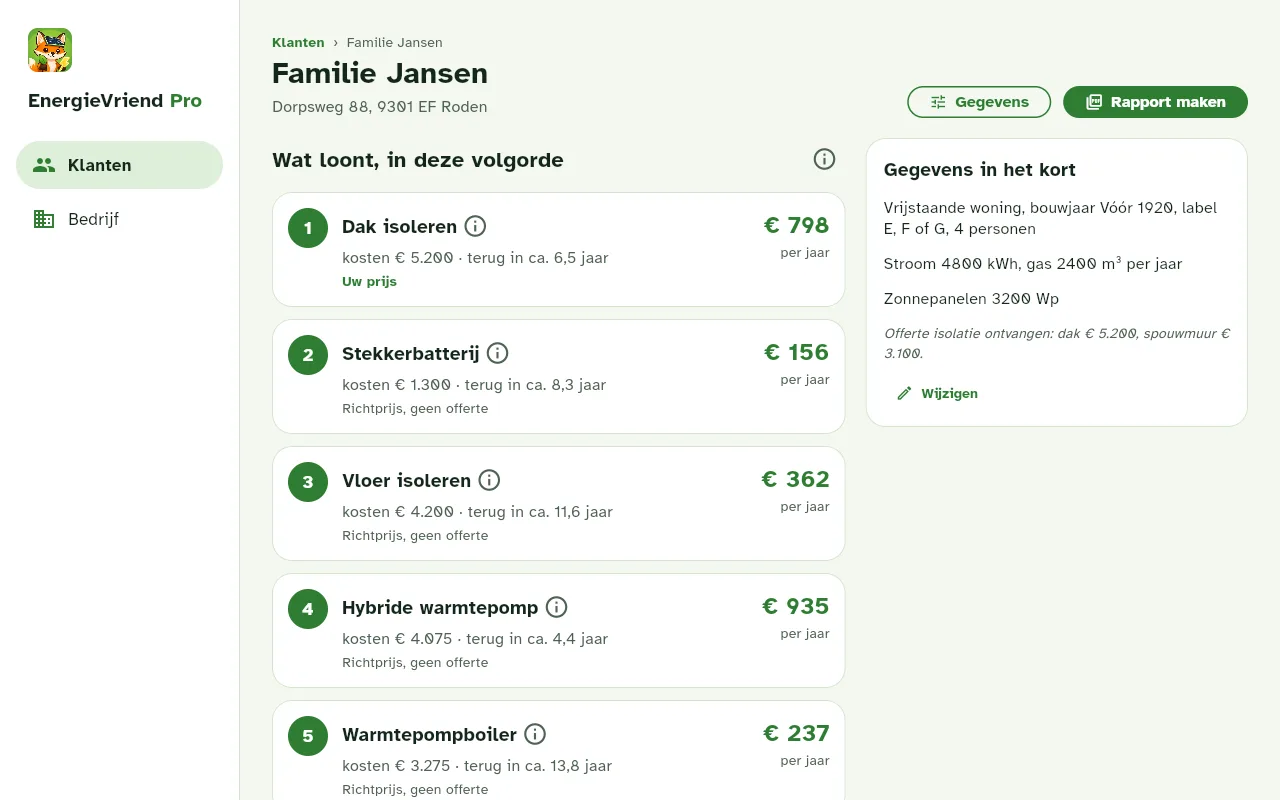
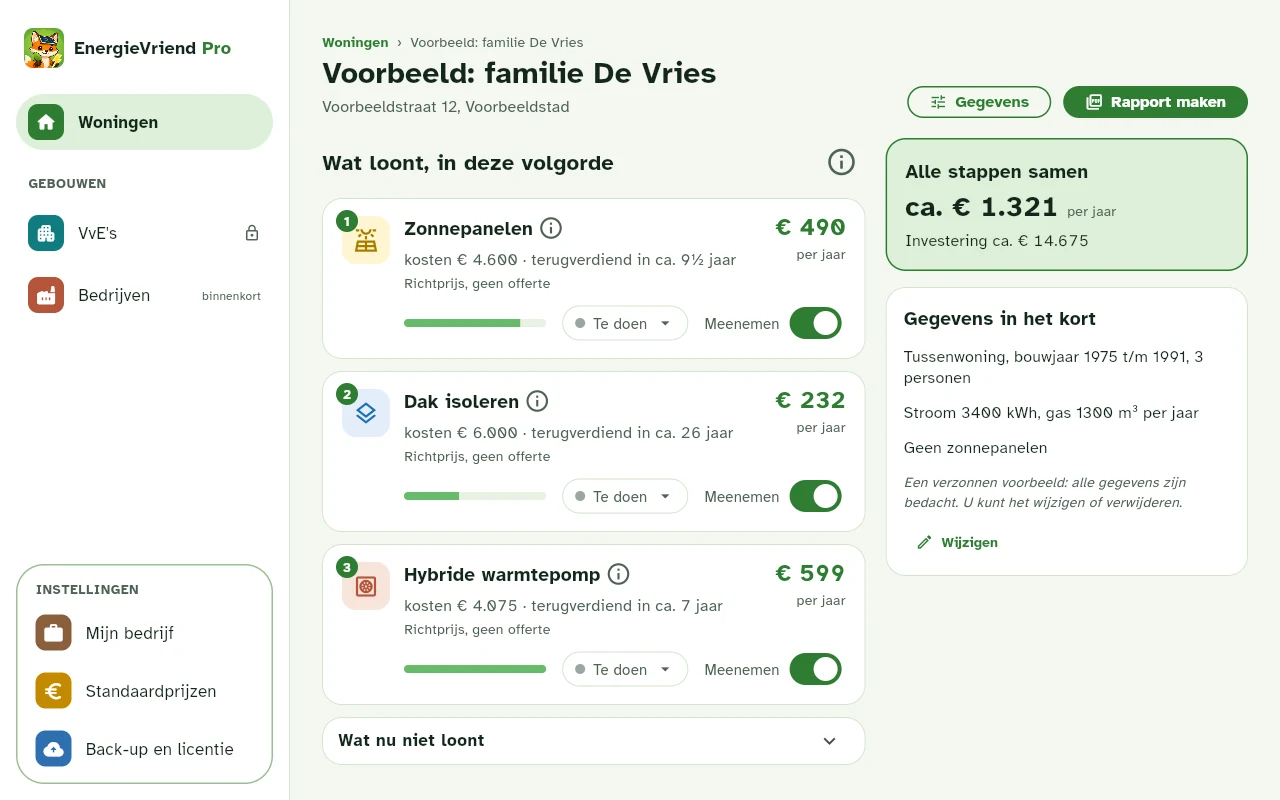
Hoofdpagina: menu en blok naar EnergieVriend Pro; adviseurspagina: nieuwe schermen, VvE-beelden, bestellen via de bestelpagina

diff --git a/adviseurs.html b/adviseurs.html
@@ -54,7 +54,13 @@
   ul { margin: 0 0 0.9rem; padding-left: 1.25rem; display: grid; gap: 0.45rem; }
   strong { font-weight: 700; }
 
-  .merk { display: flex; align-items: center; gap: 0.75rem; font-weight: 700; font-size: 1.25rem; color: var(--brand); margin-bottom: 2rem; }
+  .kop { display: flex; flex-wrap: wrap; align-items: center; justify-content: space-between; gap: 0.75rem 1.5rem; margin-bottom: 2rem; }
+  .menu { display: flex; flex-wrap: wrap; gap: 0.5rem; font-size: 1rem; }
+  .menu a { text-decoration: none; padding: 0.4rem 1rem; border-radius: 999px; border: 2px solid transparent; font-weight: 700; }
+  .menu a[aria-current="page"] { background: var(--soft); color: var(--ink); }
+  .menu a.thuis { border-color: var(--brand); }
+  .menu a.thuis:hover { background: var(--soft); }
+  .merk { display: flex; align-items: center; gap: 0.75rem; font-weight: 700; font-size: 1.25rem; color: var(--brand); margin-bottom: 0; }
   .merk img { width: 44px; height: 44px; border-radius: 12px; }
   .merk a { text-decoration: none; display: flex; align-items: center; gap: 0.75rem; color: inherit; }
   .merk .pro { color: var(--ink); }
@@ -91,13 +97,19 @@
 </head>
 <body>
 <main>
-  <div class="merk"><a href="index.html"><img src="img/icoon.png" alt="">EnergieVriend <span class="pro">Pro</span></a></div>
+  <header class="kop">
+    <div class="merk"><a href="adviseurs.html"><img src="img/icoon.png" alt="">EnergieVriend <span class="pro">Pro</span></a></div>
+    <nav class="menu" aria-label="Hoofdmenu">
+      <a href="index.html" class="thuis">Voor thuis</a>
+      <a href="adviseurs.html" aria-current="page">Voor adviseurs en VvE's</a>
+    </nav>
+  </header>
 
   <h1>Energieadvies voor adviseurs en energiecoaches</h1>
-  <p class="onder">Reken bij het huisbezoek uit wat er voor deze woning loont en in welke volgorde, met uw eigen prijzen. Geef uw klant daarna een rapport in uw eigen huisstijl.</p>
+  <p class="onder">Reken bij het huisbezoek uit wat er voor deze woning loont en in welke volgorde, met uw eigen prijzen. Geef uw klant daarna een rapport in uw eigen huisstijl. Ook voor zonnepanelen op het dak van een VvE.</p>
   <div class="knoppen">
     <a class="knop" href="https://pro.energievriend.nl">Probeer 30 dagen</a>
-    <a class="knop rand" href="mailto:contact@energievriend.nl?subject=Licentie%20EnergieVriend%20Pro">Een licentie aanvragen</a>
+    <a class="knop rand" href="https://pro.energievriend.nl/bestel.html">Licentie bestellen</a>
   </div>
   <ul class="labels">
     <li>Geen account, geen cloud</li>
@@ -110,11 +122,11 @@
     <div class="scherm">
       <figure>
         <img class="beeld" src="img/pro-laptop.webp" width="1280" height="800" alt="Het scherm van een klant in EnergieVriend Pro: een stappenplan met per stap de kosten, de terugverdientijd en het bedrag per jaar" loading="lazy">
-        <figcaption>Een klant op de laptop, met verzonnen gegevens.</figcaption>
+        <figcaption>Een woning op de laptop, met verzonnen gegevens. In Pro laadt u zo'n voorbeeld met één knop.</figcaption>
       </figure>
       <figure>
         <img class="beeld" src="img/pro-telefoon.webp" width="390" height="844" alt="Dezelfde klant op een telefoon" loading="lazy">
-        <figcaption>Dezelfde klant op de telefoon.</figcaption>
+        <figcaption>Dezelfde woning op de telefoon.</figcaption>
       </figure>
     </div>
   </section>
@@ -140,8 +152,18 @@
   <section>
     <h2>Ook voor VvE's: Pro Gebouwen</h2>
     <div class="blok">
-      <p>Met de uitbreiding Pro Gebouwen rekent u zonnepanelen door op het dak van een appartementencomplex. Op de algemene meter of per appartement, met wat het kost en oplevert per appartement, de aandachtspunten vóór de offerte en offertes naast elkaar. U maakt er een rapport voor de ledenvergadering mee, met een blad per appartement.</p>
-      <p>U probeert Pro Gebouwen 30 dagen, op het moment dat u het nodig heeft.</p>
+      <p>Met de uitbreiding Pro Gebouwen rekent u zonnepanelen door op het dak van een appartementencomplex. Op de algemene meter of per appartement, met wat het kost en oplevert per appartement. U maakt er een rapport voor de ledenvergadering mee, met een blad per appartement.</p>
+      <p>U probeert Pro Gebouwen 30 dagen, op het moment dat u het nodig heeft. Bedrijfsdaken komen er later bij.</p>
+    </div>
+    <div style="display: grid; grid-template-columns: repeat(auto-fit, minmax(300px, 1fr)); gap: 1.25rem; margin-top: 1rem;">
+      <figure>
+        <img class="beeld" src="img/pro-vve-aandachtspunten.webp" width="1280" height="1000" alt="Het scherm Aandachtspunten van een VvE in EnergieVriend Pro: wat al is meegerekend en acht tegels met wat u nog navraagt, zoals dak, installatie en verzekering" loading="lazy">
+        <figcaption><strong>Aandachtspunten vóór de offerte.</strong> Wat Pro al meerekent en wat u nog navraagt bij installateur, constructeur en verzekeraar, per onderdeel afgevinkt.</figcaption>
+      </figure>
+      <figure>
+        <img class="beeld" src="img/pro-vve-offertes.webp" width="1280" height="1100" alt="Het scherm Offertes vergelijken in EnergieVriend Pro: twee offertes naast elkaar en naast de richtprijzen, met de prijs per Wp en de terugverdientijd" loading="lazy">
+        <figcaption><strong>Offertes naast elkaar.</strong> De prijs per Wp naast de richtprijzen, wat de VvE per jaar overhoudt en wat er in elke offerte staat.</figcaption>
+      </figure>
     </div>
   </section>
 
@@ -181,12 +203,13 @@
         <li>U probeert Pro 30 dagen, zonder iets te betalen of aan te maken.</li>
         <li>Daarna werkt Pro met een licentie voor één adviseur of bedrijf, voor een jaar.</li>
         <li>Een jaarlicentie kost € 290 excl. btw (€ 350,90 incl. btw). Na een jaar verlengt u tegen de dan geldende prijs; dat gaat niet vanzelf.</li>
-        <li>U vraagt de licentie aan per e-mail en betaalt op factuur. Daarna ontvangt u de licentiecode.</li>
-        <li>Pro Gebouwen (VvE's) is een aparte jaarlicentie bovenop Pro. De prijs hoort u bij de aanvraag.</li>
+        <li>U bestelt de licentie op de bestelpagina en betaalt vooraf via Mollie. De licentiecode krijgt u direct te zien en per e-mail, en de factuur komt ook per e-mail. Een licentie is er alleen voor bedrijven en organisaties.</li>
+        <li>Pro Gebouwen (VvE's) is een aparte jaarlicentie bovenop Pro. U vraagt die aan per e-mail; de prijs hoort u bij de aanvraag.</li>
       </ul>
       <div class="knoppen">
         <a class="knop" href="https://pro.energievriend.nl">Probeer 30 dagen</a>
-        <a class="knop rand" href="mailto:contact@energievriend.nl?subject=Licentie%20EnergieVriend%20Pro">Een licentie aanvragen</a>
+        <a class="knop rand" href="https://pro.energievriend.nl/bestel.html">Licentie bestellen</a>
+        <a class="knop rand" href="mailto:contact@energievriend.nl?subject=Licentie%20Pro%20Gebouwen">Pro Gebouwen aanvragen</a>
       </div>
     </div>
   </section>

diff --git a/index.html b/index.html
@@ -55,7 +55,20 @@
   strong { font-weight: 700; }
 
   /* Kop */
-  .merk { display: flex; align-items: center; gap: 0.75rem; font-weight: 700; font-size: 1.25rem; color: var(--brand); margin-bottom: 2rem; }
+  .kop { display: flex; flex-wrap: wrap; align-items: center; justify-content: space-between; gap: 0.75rem 1.5rem; margin-bottom: 2rem; }
+  .menu { display: flex; flex-wrap: wrap; gap: 0.5rem; font-size: 1rem; }
+  .menu a { text-decoration: none; padding: 0.4rem 1rem; border-radius: 999px; border: 2px solid transparent; font-weight: 700; }
+  .menu a[aria-current="page"] { background: var(--soft); color: var(--ink); }
+  .menu a.pro { border-color: var(--brand); }
+  .menu a.pro:hover { background: var(--soft); }
+  .merk { display: flex; align-items: center; gap: 0.75rem; font-weight: 700; font-size: 1.25rem; color: var(--brand); margin-bottom: 0; }
+
+  /* Verwijzing naar Pro */
+  .prokaart { display: grid; grid-template-columns: 1fr; gap: 1.25rem; align-items: center; border: 2px solid var(--brand); }
+  @media (min-width: 720px) { .prokaart { grid-template-columns: 1.3fr 1fr; } }
+  .prokaart h2 { margin: 0 0 0.5rem; font-size: clamp(1.4rem, 4vw, 1.75rem); }
+  .prokaart .klein { font-size: 0.95rem; color: var(--muted); margin-top: 0.5rem; }
+  .prokaart img { width: 100%; height: auto; border-radius: 12px; border: 1px solid var(--line); display: block; }
   .merk img { width: 44px; height: 44px; border-radius: 12px; }
   .held { display: grid; grid-template-columns: 1fr; gap: 1.5rem; align-items: center; }
   .held h1 { margin: 0 0 0.75rem; font-size: clamp(2rem, 6vw, 3rem); }
@@ -110,7 +123,13 @@
 </head>
 <body>
 <main>
-  <div class="merk"><img src="img/icoon.png" alt="">EnergieVriend</div>
+  <header class="kop">
+    <div class="merk"><img src="img/icoon.png" alt="">EnergieVriend</div>
+    <nav class="menu" aria-label="Hoofdmenu">
+      <a href="index.html" aria-current="page">Voor thuis</a>
+      <a href="adviseurs.html" class="pro">Voor adviseurs en VvE's</a>
+    </nav>
+  </header>
 
   <div class="held">
     <div>
@@ -126,6 +145,18 @@
     </div>
     <img class="vonk" src="img/vonk.png" alt="Vonk, de vos van EnergieVriend, met een zonnepaneel op de kop">
   </div>
+
+  <section aria-labelledby="pro-kop">
+    <div class="blok prokaart">
+      <div>
+        <h2 id="pro-kop">Werkt u als energieadviseur, coach of voor een VvE?</h2>
+        <p>Dan is er <strong>EnergieVriend Pro</strong>: dezelfde berekening als de app, maar bedoeld voor uw werk. Reken bij het huisbezoek uit wat er loont voor een woning, met uw eigen prijzen en een rapport in uw eigen huisstijl. Ook voor zonnepanelen op het dak van een appartementencomplex.</p>
+        <p><a class="knop" href="adviseurs.html">Bekijk EnergieVriend Pro</a></p>
+        <p class="klein">Draait in uw browser, 30 dagen proberen. De app hieronder is voor uw eigen huis.</p>
+      </div>
+      <img src="img/pro-laptop.webp" width="1280" height="800" alt="EnergieVriend Pro op een laptop: het stappenplan van een woning met per stap de kosten en de opbrengst" loading="lazy">
+    </div>
+  </section>
 
   <section>
     <h2>Zo ziet EnergieVriend eruit</h2>
@@ -241,7 +272,7 @@
   </section>
 
   <footer>
-    <a href="adviseurs.html">Voor adviseurs</a> · <a href="privacybeleid.html">Privacybeleid</a> · <a href="mailto:contact@energievriend.nl">contact@energievriend.nl</a> · EnergieVriend is een app van <a href="https://vdlintelligence.nl">VDLIntelligence</a>.
+    <a href="adviseurs.html">EnergieVriend Pro voor adviseurs en VvE's</a> ·<a href="privacybeleid.html">Privacybeleid</a> · <a href="mailto:contact@energievriend.nl">contact@energievriend.nl</a> · EnergieVriend is een app van <a href="https://vdlintelligence.nl">VDLIntelligence</a>.
   </footer>
 </main>
 </body>
